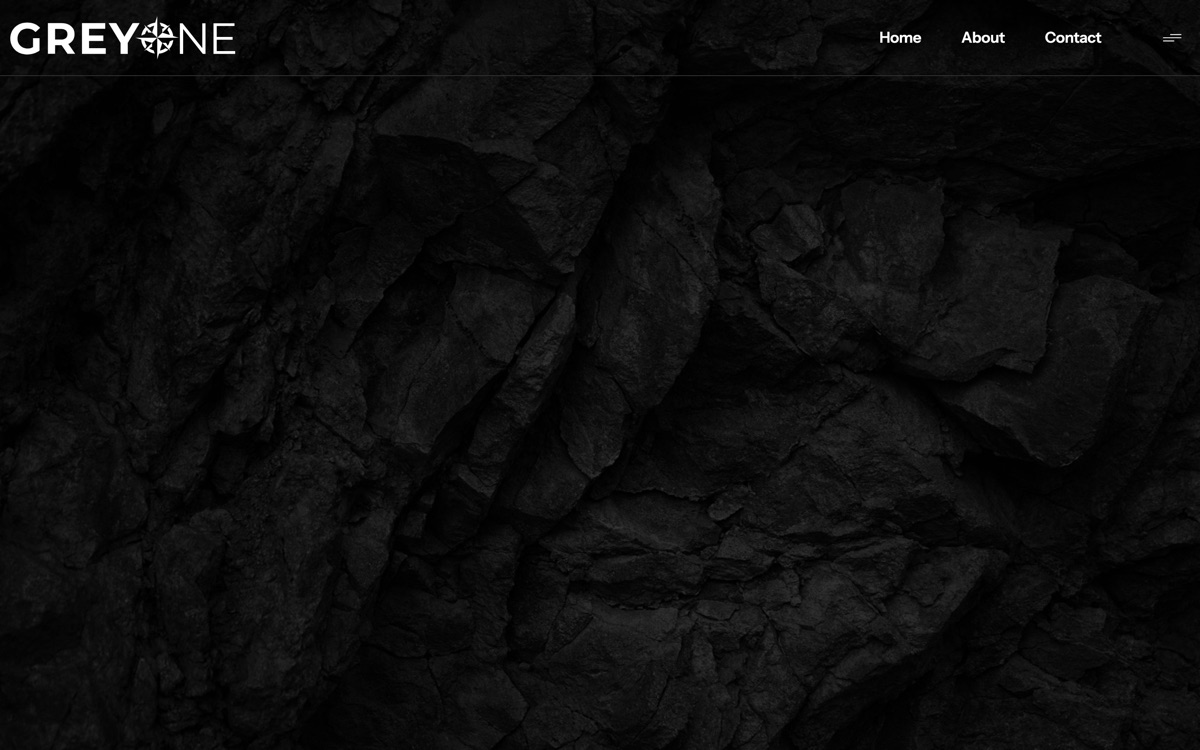
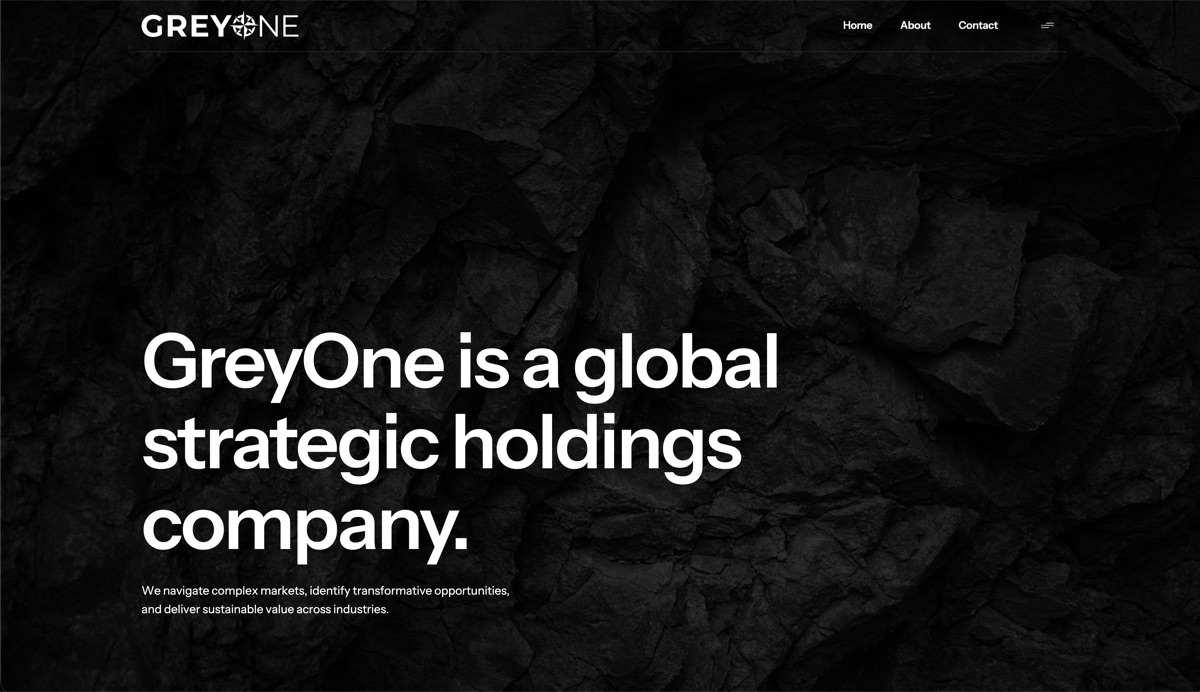
Use the supplied GreyOne hero shot
Replaces the headless capture with a proper full-bleed shot of the logo
and headline. Cache-busted, since the filename is unchanged and images
are served with a thirty-day max-age.

diff --git a/portfolio/index.html b/portfolio/index.html
@@ -113,8 +113,8 @@
 
       <li class="pf-item reveal">
         <a class="pf-shot" href="https://greyone.io/" target="_blank" rel="noopener">
-          <img src="img/greyone.jpg" width="1200" height="750" loading="lazy" decoding="async"
-               alt="GreyOne homepage.">
+          <img src="img/greyone.jpg?v=2" width="1200" height="692" loading="lazy" decoding="async"
+               alt="GreyOne homepage: the headline GreyOne is a global strategic holdings company, in white over dark rock.">
         </a>
         <div class="pf-copy">
           <h2>GreyOne</h2>
